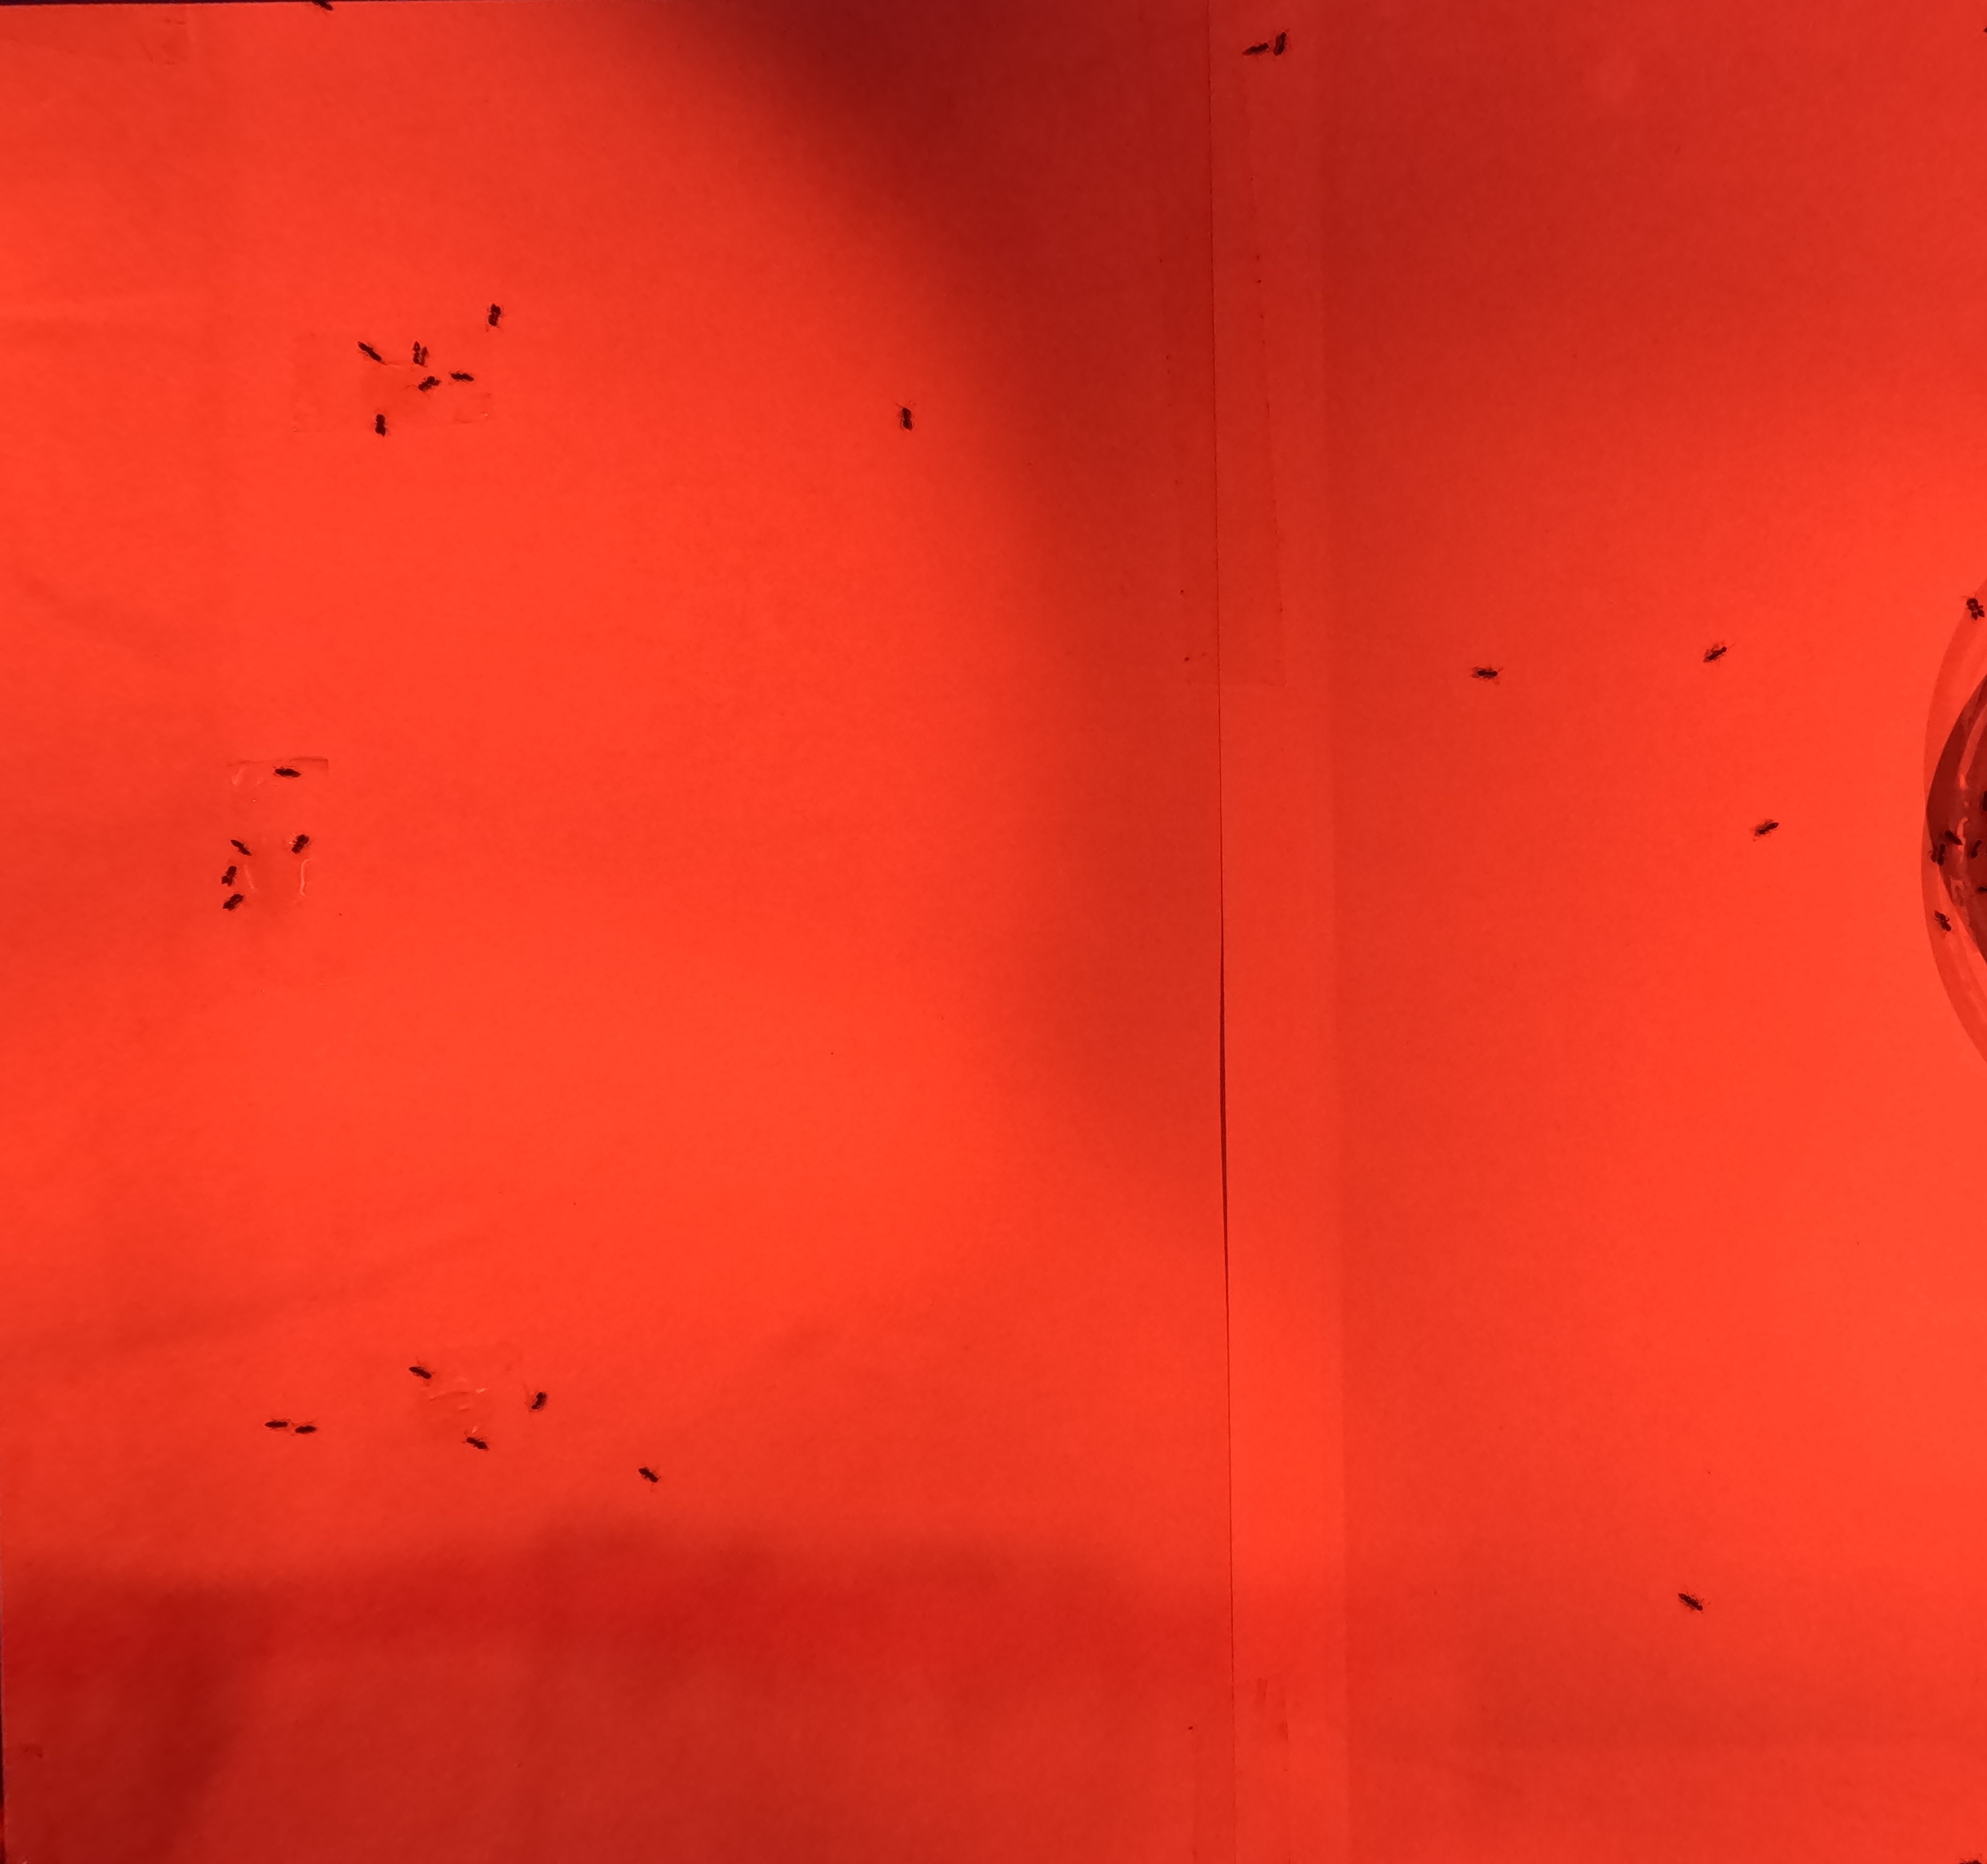
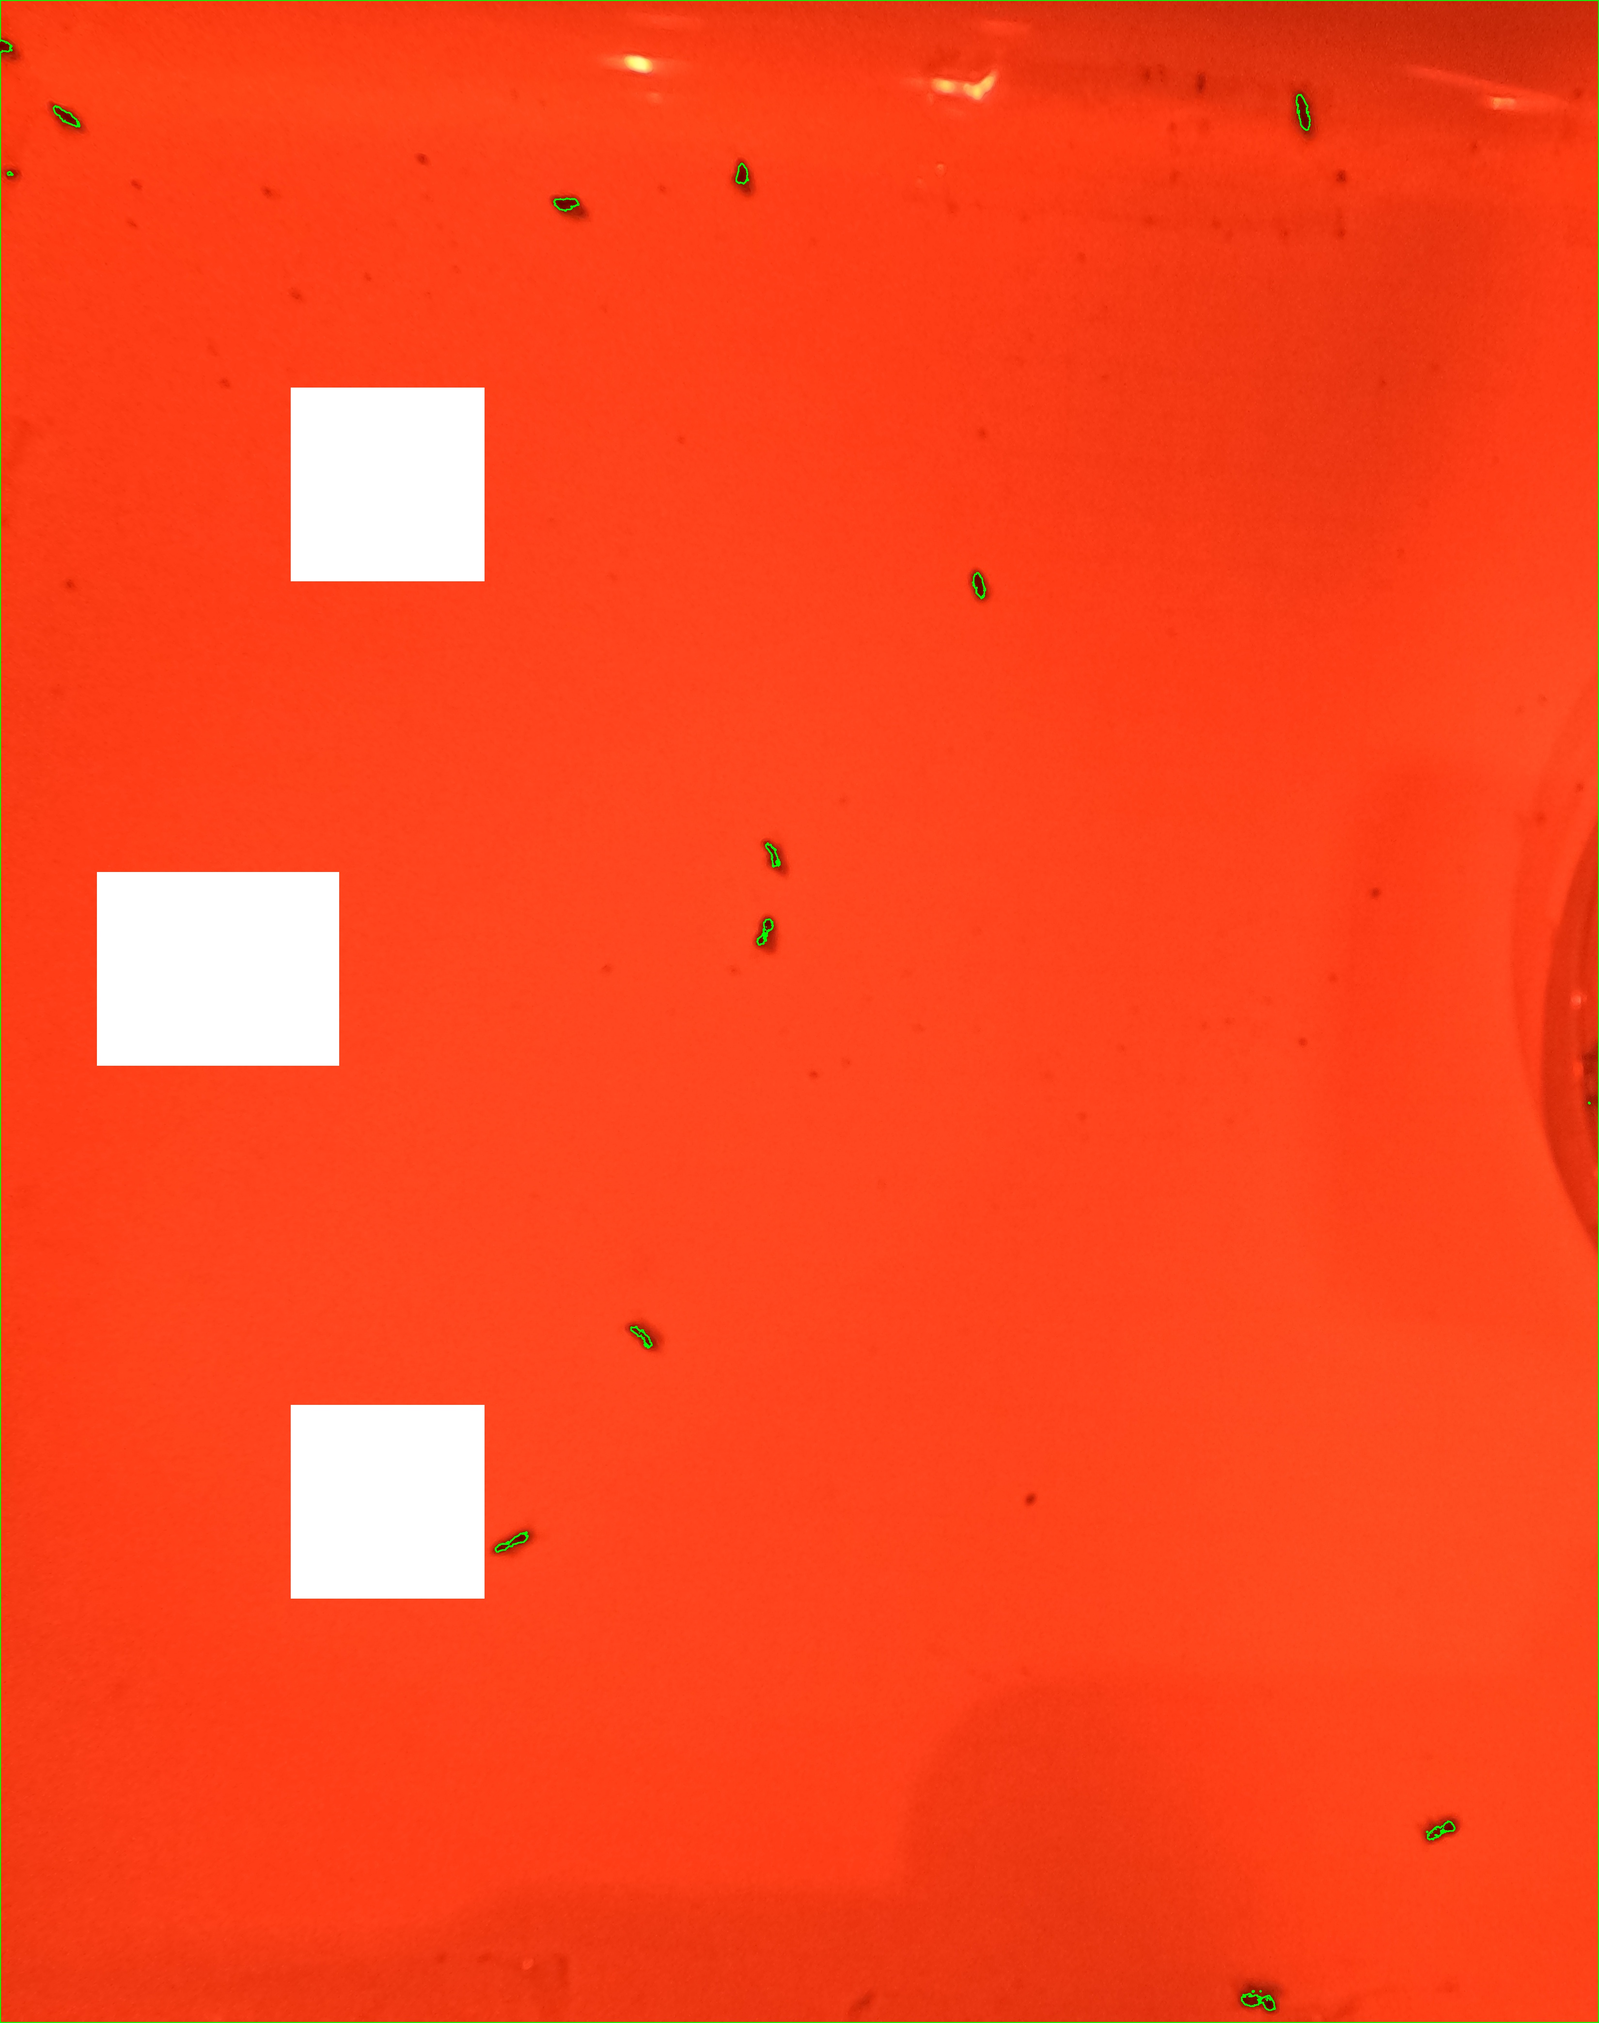
feat: update red function

diff --git a/src/red.py b/src/red.py
@@ -5,8 +5,21 @@ def red():
     image_path = './data/red/sample.jpg'
     image = cv2.imread(image_path)
 
+    # Trimming (トリミング)
+    # [top : bottom, left : right]
+    trimming = image[0 : 4176, 200: 3500]
+    cv2.imwrite("./data/red/trimming.jpg", trimming)
+
+    # Mask (マスク)
+    # 参考サイト: https://qiita.com/takiguchi-yu/items/277c596b7f96b0d9f9c0
+    # [top : bottom, left : right]
+    trimming[800:1200, 600:1000] = 255
+    trimming[1800:2200, 200:700] = 255
+    trimming[2900:3300, 600:1000] = 255
+    cv2.imwrite('./data/red/mask.jpg', trimming)
+
     # Grayscale (グレースケール化)
-    grayscale = cv2.cvtColor(image, cv2.COLOR_BGR2GRAY)
+    grayscale = cv2.cvtColor(trimming, cv2.COLOR_BGR2GRAY)
     cv2.imwrite('./data/red/grayscale.jpg', grayscale)
 
     # # Remove noise using Gaussian blur (ノイズ除去)
@@ -18,30 +31,39 @@ def red():
     cv2.imwrite('./data/red/threshold.jpg', threshold)
 
     # Find contours (輪郭抽出)
+    # 参考サイト: https://www.codevace.com/py-opencv-findcontours/
     contours, _ = cv2.findContours(threshold, cv2.RETR_LIST, cv2.CHAIN_APPROX_NONE)
     # Draw contours (輪郭描画)
-    contours_image = image.copy()
+    contours_image = trimming.copy()
     cv2.drawContours(contours_image, contours, -1, color=(0, 255, 0), thickness=2)
     cv2.imwrite('./data/red/contours.jpg', contours_image)
 
     # Draw rectangle (短形描画)
+    # 参考サイト: https://qiita.com/neriai/items/448a36992e308f4cabe2
+    # 参考サイト: https://qiita.com/neriai/items/448a36992e308f4cabe2
     # rectangle quantity
     detect_count = 0
     # process each contour
     for contour in contours:
+        # Get bounding box
+        x, y, w, h = cv2.boundingRect(contour)
         # Get contour area
         area = cv2.contourArea(contour)
         # Remove noise
-        if area < 1e2 or 4e3 < area:
-            continue
-        detect_count += 1
-        # Get bounding box
-        x, y, w, h = cv2.boundingRect(contour)
+        # 参考サイト: https://nanjamonja.net/archives/171
         # Draw rectangle
-        cv2.rectangle(image, (x, y), (x + w, y + h), (0, 255, 0), 2)
+        if 1e2 < area < 4e3:
+            # Ignore small and large area
+            cv2.rectangle(trimming, (x, y), (x + w, y + h), (0, 255, 0), 2)
+            # count rectangle
+            detect_count += 1
+        # Draw all rectangles
+        cv2.rectangle(contours_image, (x, y), (x + w, y + h), (0, 255, 0), 2)
+    # contours and rectangle
+    cv2.imwrite('./data/red/contours_rectangle.jpg', contours_image)
     
     # Show detected count
     print(f"Detected {detect_count} rectangles.")
 
     # Save
-    cv2.imwrite('./data/red/result.jpg', image)
+    cv2.imwrite('./data/red/result.jpg', trimming)

diff --git a/src/normal.py b/src/normal.py
@@ -17,7 +17,6 @@ def normal():
     trimming[800:1200, 600:1000] = 255
     trimming[1800:2200, 200:700] = 255
     trimming[2900:3300, 600:1000] = 255
-
     cv2.imwrite('./data/normal/mask.jpg', trimming)
 
     # Grayscale (グレースケール化)
